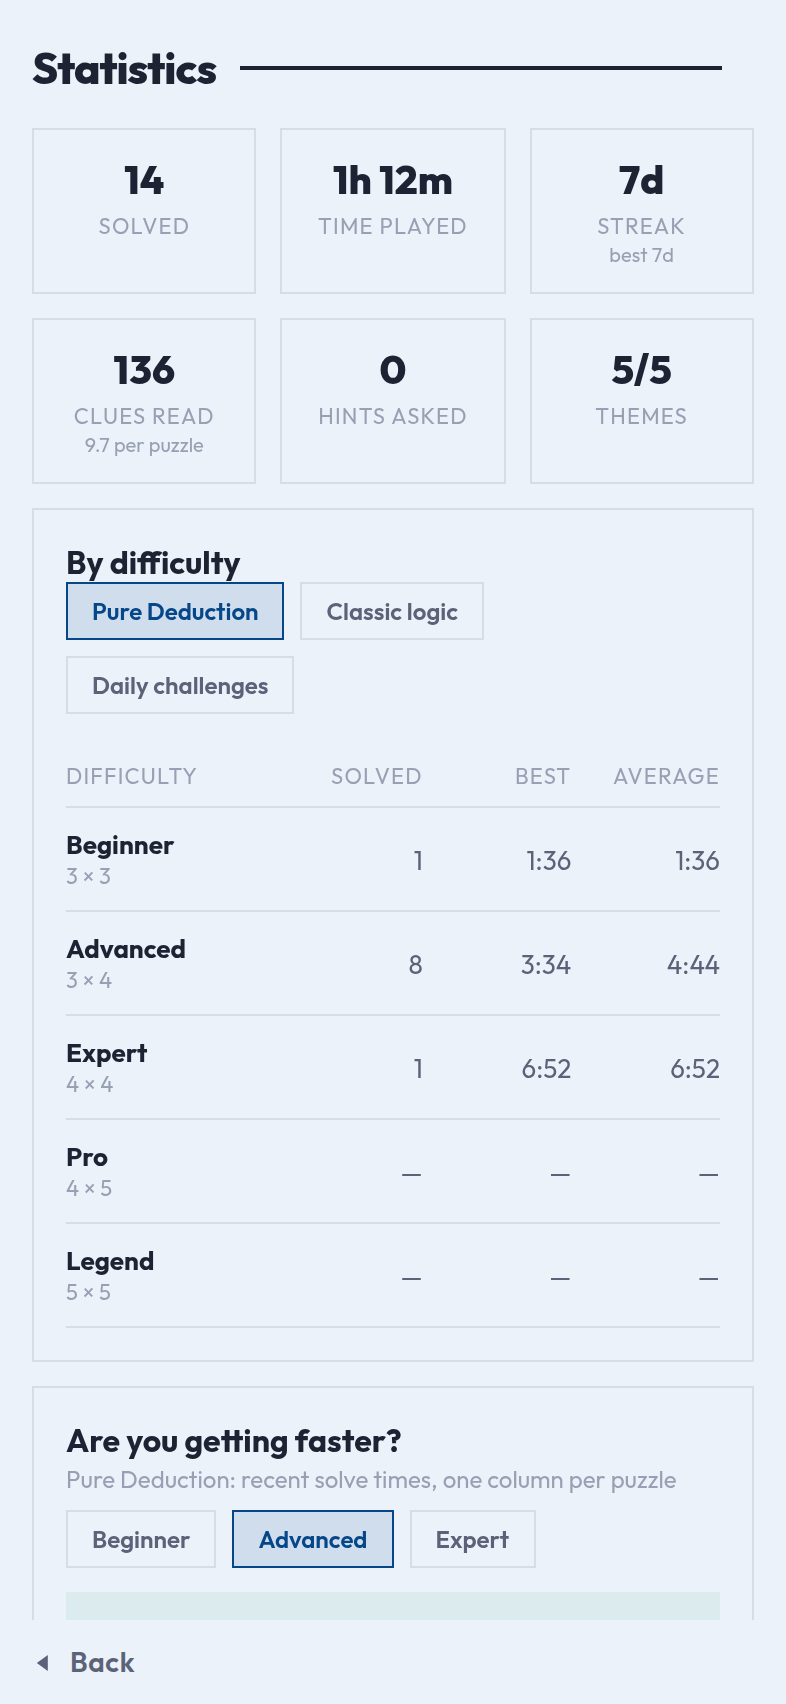
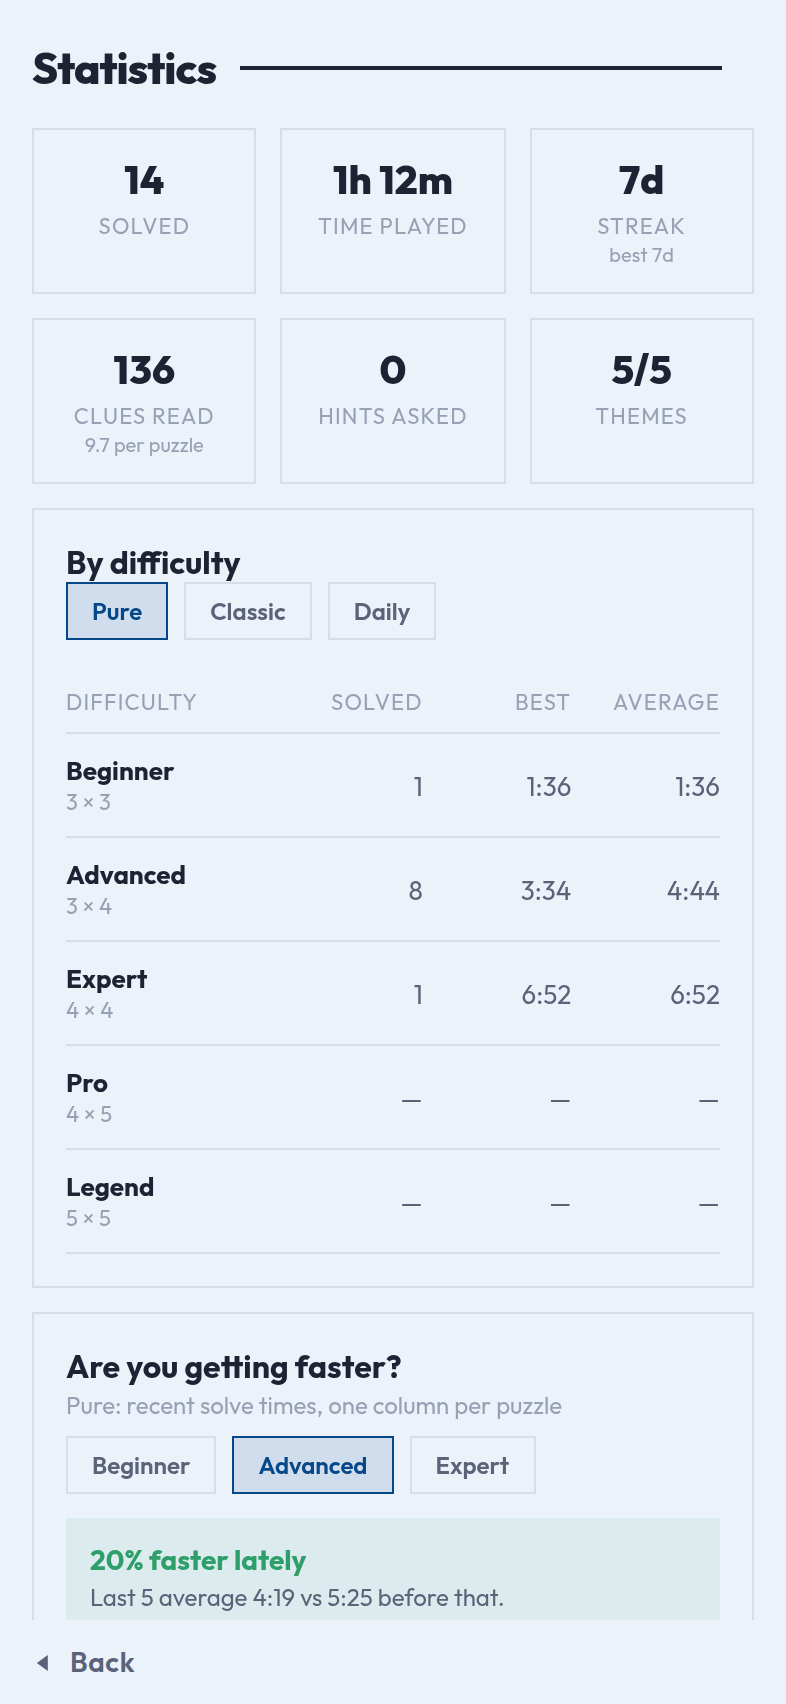
Short names on the statistics tabs
Pure, Classic, Daily. Three tabs over one table, and the full names took two
lines to say what one word each says; the line under the trend chart reads
"Pure: recent solve times" rather than starting a sentence about a menu. The
menu where the choice is actually made keeps the full names — that is where
they earn their length.

Claude-Session: https://claude.ai/code/session_01RrDehsX5bvPAsFa5dYERaj

diff --git a/src/screens/__tests__/screens.test.tsx b/src/screens/__tests__/screens.test.tsx
@@ -1945,13 +1945,13 @@ describe('the statistics', () => {
 
     // Both games are counted in the totals; only one of them is in the table.
     expect(screen.getByText('2')).toBeOnTheScreen();
-    expect(screen.getAllByText('Pure Deduction').length).toBeGreaterThan(0);
+    expect(screen.getAllByText('Pure').length).toBeGreaterThan(0);
     // The Pure time is in the table twice — best and average, one game — and
     // the Classic one is nowhere on it.
     expect(screen.getAllByText('1:40').length).toBeGreaterThan(0);
     expect(screen.queryByText('6:40')).toBeNull();
 
-    fireEvent.press(screen.getByRole('tab', { name: 'Classic logic' }));
+    fireEvent.press(screen.getByRole('tab', { name: 'Classic' }));
     expect(screen.getAllByText('6:40').length).toBeGreaterThan(0);
     expect(screen.queryByText('1:40')).toBeNull();
   });
@@ -1974,10 +1974,10 @@ describe('the statistics', () => {
       />,
     );
 
-    expect(screen.getByRole('tab', { name: 'Daily challenges' })).toBeOnTheScreen();
+    expect(screen.getByRole('tab', { name: 'Daily' })).toBeOnTheScreen();
     expect(screen.queryByText('4:10')).toBeNull();
 
-    fireEvent.press(screen.getByRole('tab', { name: 'Daily challenges' }));
+    fireEvent.press(screen.getByRole('tab', { name: 'Daily' }));
     expect(screen.getAllByText('4:10').length).toBeGreaterThan(0);
     expect(screen.queryByText('1:40')).toBeNull();
   });
@@ -1994,8 +1994,8 @@ describe('the statistics', () => {
       />,
     );
 
-    expect(screen.queryByRole('tab', { name: 'Classic logic' })).toBeNull();
+    expect(screen.queryByRole('tab', { name: 'Classic' })).toBeNull();
     // Still said, so a screen nobody has explained cannot be read as both.
-    expect(screen.getAllByText('Pure Deduction').length).toBeGreaterThan(0);
+    expect(screen.getAllByText('Pure').length).toBeGreaterThan(0);
   });
 });

diff --git a/src/game/modes.ts b/src/game/modes.ts
@@ -25,7 +25,8 @@ export interface Mode {
   /**
    * The same choice in one word, for a line with no room for the full name: a
    * shared result, where "Deduction · Pure Deduction" would say the app's own
-   * name twice, and a statistics row that has a difficulty to fit as well.
+   * name twice, and the statistics, where all three kinds of game label one row
+   * of tabs over a table that has difficulties to fit as well.
    */
   short: string;
   /**
@@ -71,9 +72,16 @@ export type PlayedAs = ModeId | 'daily';
 
 export const DAILY: PlayedAs = 'daily';
 
-/** The three, in the order the statistics show them. */
+/**
+ * The three, in the order the statistics show them, under their short names.
+ *
+ * Short because all three label one row of tabs over a table of times, where
+ * the full names would take two lines to say what one word each says — and
+ * because the line under the trend chart reads "Classic: recent solve times",
+ * which the full name would make a sentence about a menu.
+ */
 export const PLAYED_AS: { id: PlayedAs; name: string }[] = [
-  ...MODES.map((mode) => ({ id: mode.id as PlayedAs, name: mode.name })),
+  ...MODES.map((mode) => ({ id: mode.id as PlayedAs, name: mode.short })),
   { id: DAILY, name: t('modes.daily') },
 ];
 

diff --git a/src/i18n/strings.generated.ts b/src/i18n/strings.generated.ts
@@ -230,7 +230,7 @@ export const STRINGS = {
       hint: 'Every mark on the board is yours',
       short: 'Classic',
     },
-    daily: 'Daily challenges',
+    daily: 'Daily',
     locked:
       'Classic logic works nothing out for you. Start a Pure Deduction game to have the board keep up.',
   },

diff --git a/src/stats/summary.ts b/src/stats/summary.ts
@@ -64,7 +64,7 @@ export interface SizeStats {
  */
 export interface PlayStats {
   playedAs: PlayedAs;
-  /** What it is called: "Classic logic", "Daily challenges". */
+  /** What it is called, short: "Classic", "Daily". */
   name: string;
   solved: number;
   sizes: SizeStats[];
